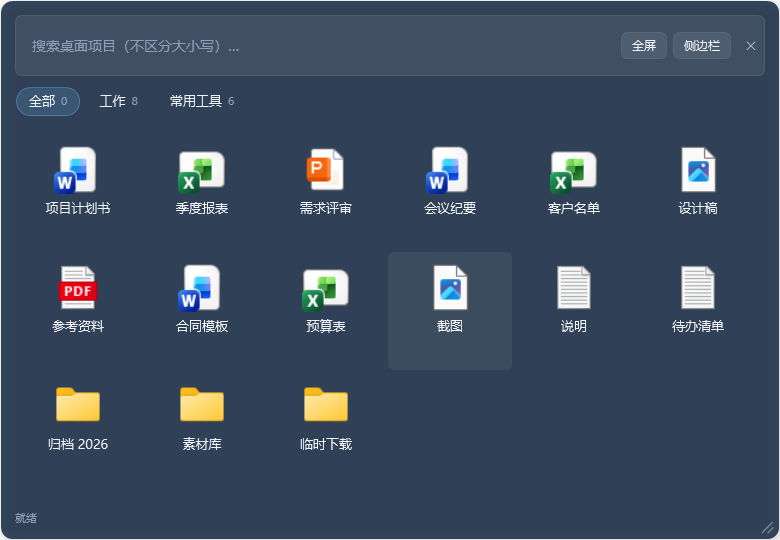
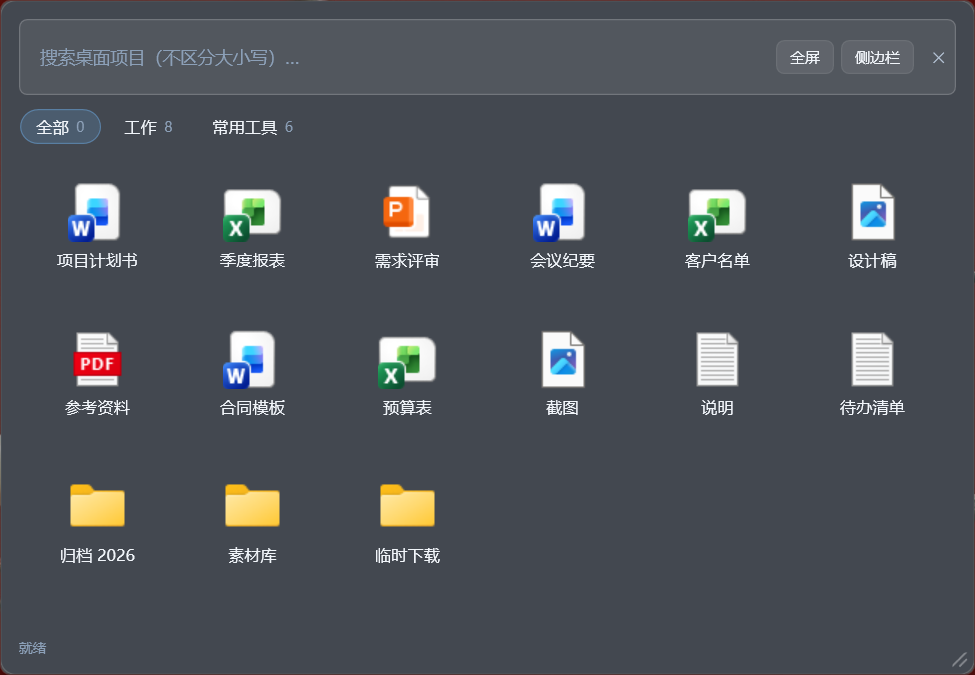
对外截图改用屏幕合成 + 重截（脱敏）
README 的 5 张图还是旧深色 UI 的视觉树快照，而视觉树快照抓不到
DWM 材质与壁纸——改版成玻璃风后，用旧方式重截出来还是深色观感。

改动：
- UiSnapshot 新增 --screen：强制所有模式走 GDI BitBlt 屏幕合成截图
  （原本只有 settings / dialog 走这条路）
- --screen 下主窗口最大化：屏幕合成截图会把窗口外的桌面一起拍进来，
  真实图标文件名就跟着泄露了；最大化后背景只剩壁纸
- 踩坑：WPF 不允许 ShowActivated=false 与 WindowState=Maximized 共存，
  Show() 直接抛 InvalidOperationException。--screen 时改为 ShowActivated=true
  （截图工具抢一下焦点无所谓）
- 新增 tools/refresh-readme-shots.py：清场（最小化其他窗口）→
  逐个模式跑 --demo --screen → 恢复窗口

脱敏核对：项目名是中性演示数据（项目计划书 / 季度报表 / 临时下载 等 15 项），
无真实文件名。

diff --git a/tests/DeskLanes.UiSnapshot/Program.cs b/tests/DeskLanes.UiSnapshot/Program.cs
@@ -1,9 +1,12 @@
 // ============================================================================
 // DeskLanes 界面快照工具（UI 改版视觉验证用）
 // ----------------------------------------------------------------------------
-// 用法：DeskLanes.UiSnapshot.exe <category|panels|floating|sidebar|settings|dialog|perf> <输出.png> [--demo] [--top]
+// 用法：DeskLanes.UiSnapshot.exe <category|panels|floating|sidebar|settings|dialog|perf> <输出.png> [--demo] [--top] [--screen]
 //   perf 模式不出图：实测「分类导航 ↔ 自由分区」来回切换的耗时（B6 最后一项）。
 //   配 --demo 会用 220 个演示项目跑压力版，不加则用真实桌面。
+//   配 --screen 强制所有模式走 GDI 屏幕合成截图（默认只有 settings / dialog 走）：
+//          视觉树快照抓不到 DWM 材质与壁纸，展示玻璃效果必须加它；
+//          主窗口模式下会顺便最大化，避免把真实桌面图标拍进对外截图。
 //
 // 行为：
 //   1. 把真实配置目录（%LocalAppData%\DeskLanes）复制到临时目录，绝不写回真实配置；
@@ -70,12 +73,16 @@ public static class Program
         // --top：设置窗口不滚到底，保持顶部（默认滚到底是为了拍到末尾分区）
         bool keepTop = args.Skip(2).Any(a => string.Equals(a, "--top", StringComparison.OrdinalIgnoreCase));
 
+        // --screen：所有模式都用 GDI BitBlt 屏幕合成截图，而不只是 settings / dialog。
+        // 视觉树快照抓不到 DWM 材质与桌面壁纸，对外展示「玻璃效果」必须带这个开关。
+        bool screen = args.Skip(2).Any(a => string.Equals(a, "--screen", StringComparison.OrdinalIgnoreCase));
+
         // 屏幕合成截图需要物理像素坐标（与 GetWindowRect / GetDC 一致）
         SetProcessDPIAware();
 
         try
         {
-            RunAsync(mode, output, demo, keepTop).GetAwaiter().GetResult();
+            RunAsync(mode, output, demo, keepTop, screen).GetAwaiter().GetResult();
             return 0;
         }
         catch (Exception ex)
@@ -85,7 +92,7 @@ public static class Program
         }
     }
 
-    private static async Task RunAsync(string mode, string output, bool demo, bool keepTop)
+    private static async Task RunAsync(string mode, string output, bool demo, bool keepTop, bool screen = false)
     {
         // 1. 复制真实配置到临时目录（只读使用，不污染真实配置）；--demo 时不复制
         string realDir = Path.Combine(
@@ -219,8 +226,20 @@ public static class Program
                     Width = 1400,
                     Height = 900,
                     WindowStartupLocation = WindowStartupLocation.CenterScreen,
-                    ShowActivated = false,
+                    // WPF 不允许 ShowActivated=false 与 WindowState=Maximized 同时存在，
+                    // 否则 Show() 直接抛 InvalidOperationException。--screen 要最大化
+                    // （不然会把真实桌面图标拍进对外截图），所以这里放开激活——
+                    // 截图工具抢一下焦点无所谓。
+                    ShowActivated = screen,
                 };
+
+                // --screen：屏幕合成截图会把窗口之外的桌面一起拍进来，
+                // 真实桌面图标的文件名就跟着泄露了。主窗口最大化后背景只剩壁纸，
+                // 而且这也正好是"全屏工作空间"的真实形态。
+                if (screen)
+                {
+                    window.WindowState = WindowState.Maximized;
+                }
             }
 
             dialogService.SetOwner(window);
@@ -284,9 +303,10 @@ public static class Program
 
                     Directory.CreateDirectory(Path.GetDirectoryName(output)!);
 
-                    if (mode is "settings" or "dialog")
+                    if (mode is "settings" or "dialog" || screen)
                     {
-                        // 普通窗口：屏幕合成截图，能看到 DWM 实际渲染的 Mica 毛玻璃
+                        // 屏幕合成截图：能看到 DWM 实际渲染的 Acrylic 毛玻璃与透出的壁纸。
+                        // 视觉树快照做不到这一点，所以对外展示玻璃效果必须走这条路。
                         CaptureWindowToPng(new WindowInteropHelper(window).Handle, output);
                         Console.WriteLine($"快照已保存：{output}（屏幕合成，模式 {mode}）");
                     }

diff --git a/tools/refresh-readme-shots.py b/tools/refresh-readme-shots.py
@@ -1,0 +1,136 @@
+"""重截 README 用的对外截图（脱敏 + 玻璃材质）。
+
+为什么需要这个脚本：
+  1. 屏幕合成截图会把窗口之外的桌面一起拍进来 —— 先用最小化清场，
+     且主窗口模式会最大化，背景只剩壁纸，真实图标文件名不会进截图。
+  2. 必须带 --demo：项目列表换成演示数据，不出现真实桌面文件名。
+  3. 必须带 --screen：视觉树快照抓不到 DWM 材质，拍出来还是旧深色观感。
+
+用法：
+    python tools/refresh-readme-shots.py
+"""
+
+import ctypes
+import os
+import subprocess
+import sys
+import time
+
+EnumWindowsProc = ctypes.WINFUNCTYPE(ctypes.c_bool, ctypes.c_void_p, ctypes.c_void_p)
+
+SW_MINIMIZE = 6
+SW_RESTORE = 9
+
+IsWindowVisible = ctypes.windll.user32.IsWindowVisible
+IsIconic = ctypes.windll.user32.IsIconic
+ShowWindow = ctypes.windll.user32.ShowWindow
+GetWindowTextW = ctypes.windll.user32.GetWindowTextW
+GetWindowTextLengthW = ctypes.windll.user32.GetWindowTextLengthW
+
+SHELL_CLASSES = {
+    "Progman", "Shell_TrayWnd", "Shell_SecondaryTrayWnd", "DV2ControlHost",
+    "Windows.UI.Core.CoreWindow", "WorkerW",
+}
+
+# 模式 -> 输出文件名
+TARGETS = [
+    ("category", "category.png"),
+    ("panels", "panels.png"),
+    ("floating", "floating.png"),
+    ("sidebar", "sidebar.png"),
+    ("settings", "settings.png"),
+]
+
+
+def _class(hwnd):
+    buf = ctypes.create_unicode_buffer(256)
+    ctypes.windll.user32.GetClassNameW(hwnd, buf, 256)
+    return buf.value
+
+
+def _title(hwnd):
+    n = GetWindowTextLengthW(hwnd)
+    if n <= 0:
+        return ""
+    buf = ctypes.create_unicode_buffer(n + 1)
+    GetWindowTextW(hwnd, buf, n + 1)
+    return buf.value
+
+
+def enumerate_windows():
+    out = []
+
+    @EnumWindowsProc
+    def cb(hwnd, _):
+        out.append(hwnd)
+        return True
+
+    ctypes.windll.user32.EnumWindows(cb, 0)
+    return out
+
+
+def minimize_all():
+    """清场：把会挡在桌面上的窗口最小化，避免拍进截图。"""
+    minimized = []
+    for hwnd in enumerate_windows():
+        if not IsWindowVisible(hwnd) or IsIconic(hwnd):
+            continue
+        if _class(hwnd) in SHELL_CLASSES or not _title(hwnd):
+            continue
+        ShowWindow(hwnd, SW_MINIMIZE)
+        minimized.append(hwnd)
+    return minimized
+
+
+def restore(handles):
+    for hwnd in handles:
+        ShowWindow(hwnd, SW_RESTORE)
+
+
+def main():
+    ctypes.windll.shcore.SetProcessDpiAwareness(2)
+    repo = os.path.dirname(os.path.dirname(os.path.abspath(__file__)))
+    out_dir = os.path.join(repo, "docs", "screenshots")
+    os.makedirs(out_dir, exist_ok=True)
+
+    dotnet = os.path.join(
+        os.path.expanduser("~"), ".dotnet", "dotnet.exe")
+    if not os.path.isfile(dotnet):
+        sys.stdout.write("dotnet not found: %s\n" % dotnet)
+        return 1
+
+    env = dict(os.environ)
+    env["DOTNET_ROOT"] = os.path.dirname(dotnet)
+
+    minimized = minimize_all()
+    sys.stdout.write("cleared desktop (%d windows minimized)\n" % len(minimized))
+    time.sleep(0.8)
+
+    failures = []
+    try:
+        for mode, filename in TARGETS:
+            out = os.path.join(out_dir, filename)
+            args = [dotnet, "run", "--project",
+                    os.path.join(repo, "tests", "DeskLanes.UiSnapshot"),
+                    "-c", "Release", "--no-build", "--",
+                    mode, out, "--demo", "--screen"]
+            proc = subprocess.run(args, capture_output=True, env=env, timeout=180)
+            if proc.returncode == 0:
+                size = os.path.getsize(out) if os.path.isfile(out) else 0
+                sys.stdout.write("  %-10s -> %s (%d B)\n" % (mode, filename, size))
+            else:
+                sys.stdout.write("  %-10s FAILED\n" % mode)
+                sys.stdout.write(proc.stdout.decode("utf-8", "replace")[-500:] + "\n")
+                failures.append(mode)
+    finally:
+        restore(minimized)
+
+    if failures:
+        sys.stdout.write("failed modes: %s\n" % ", ".join(failures))
+        return 1
+    sys.stdout.write("all screenshots refreshed\n")
+    return 0
+
+
+if __name__ == "__main__":
+    sys.exit(main())
